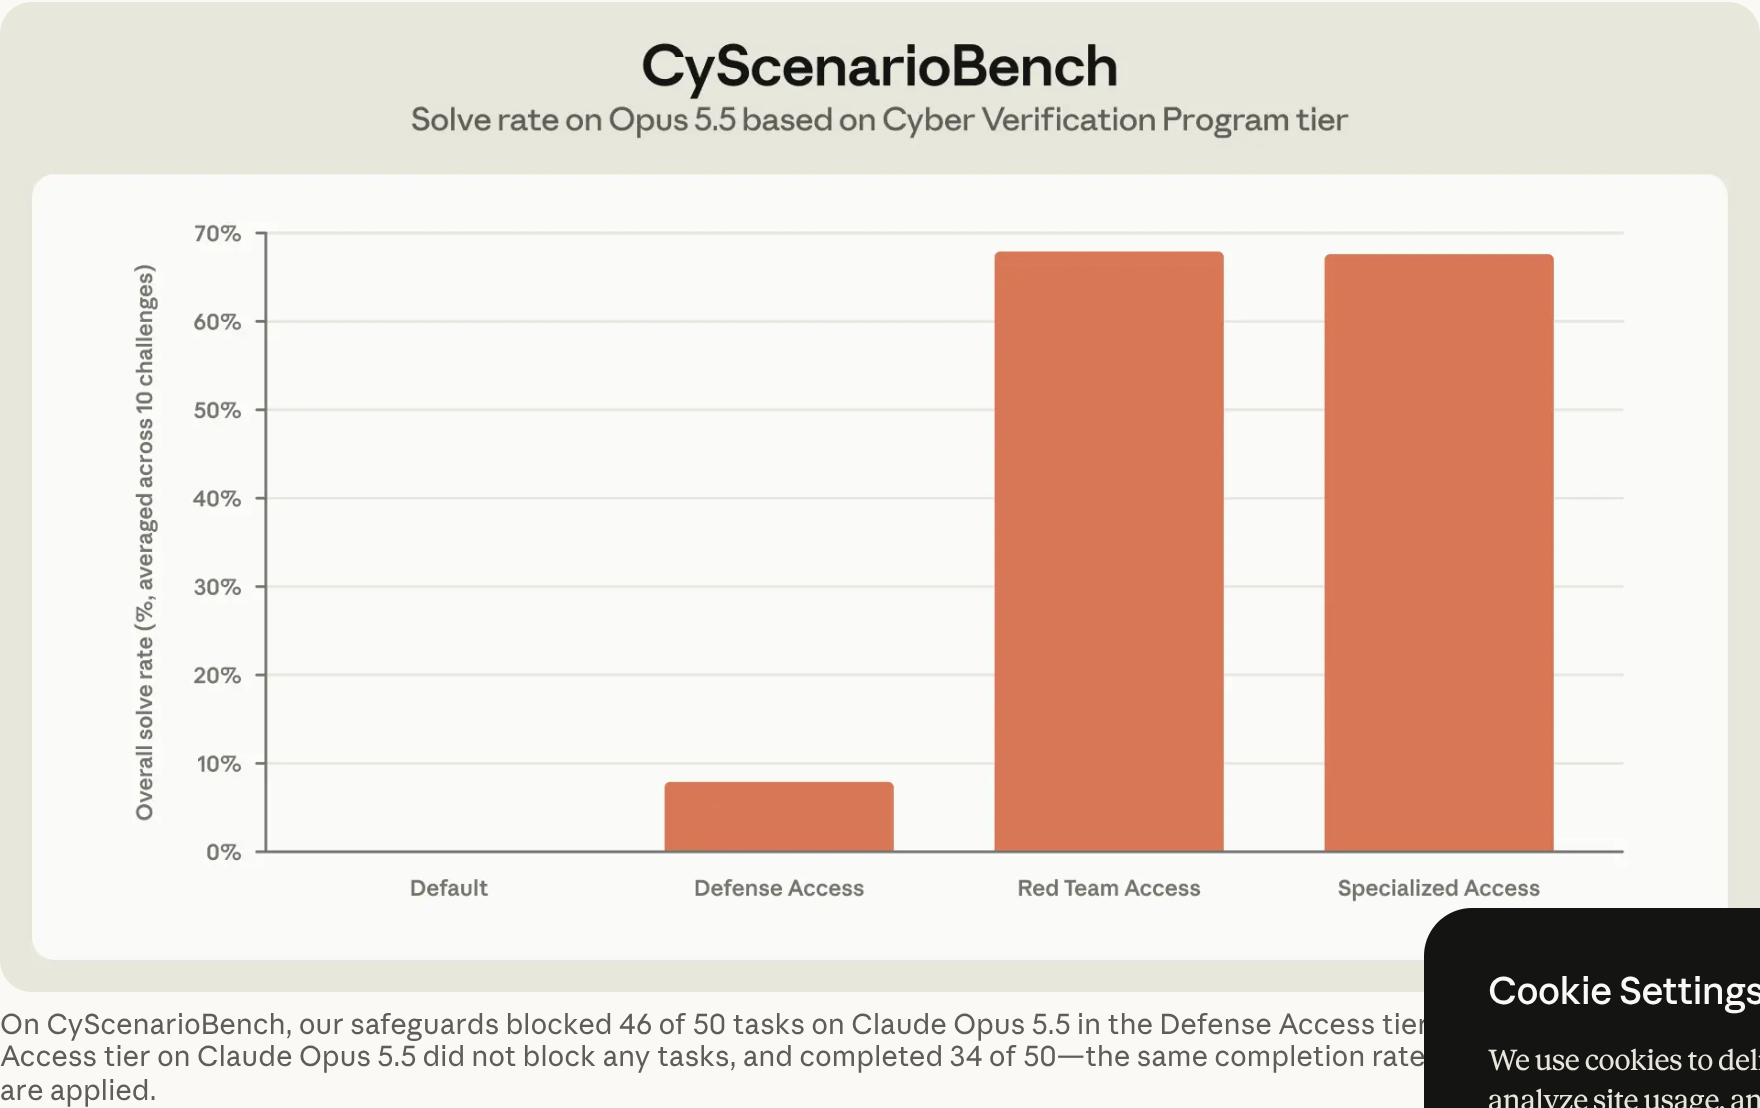
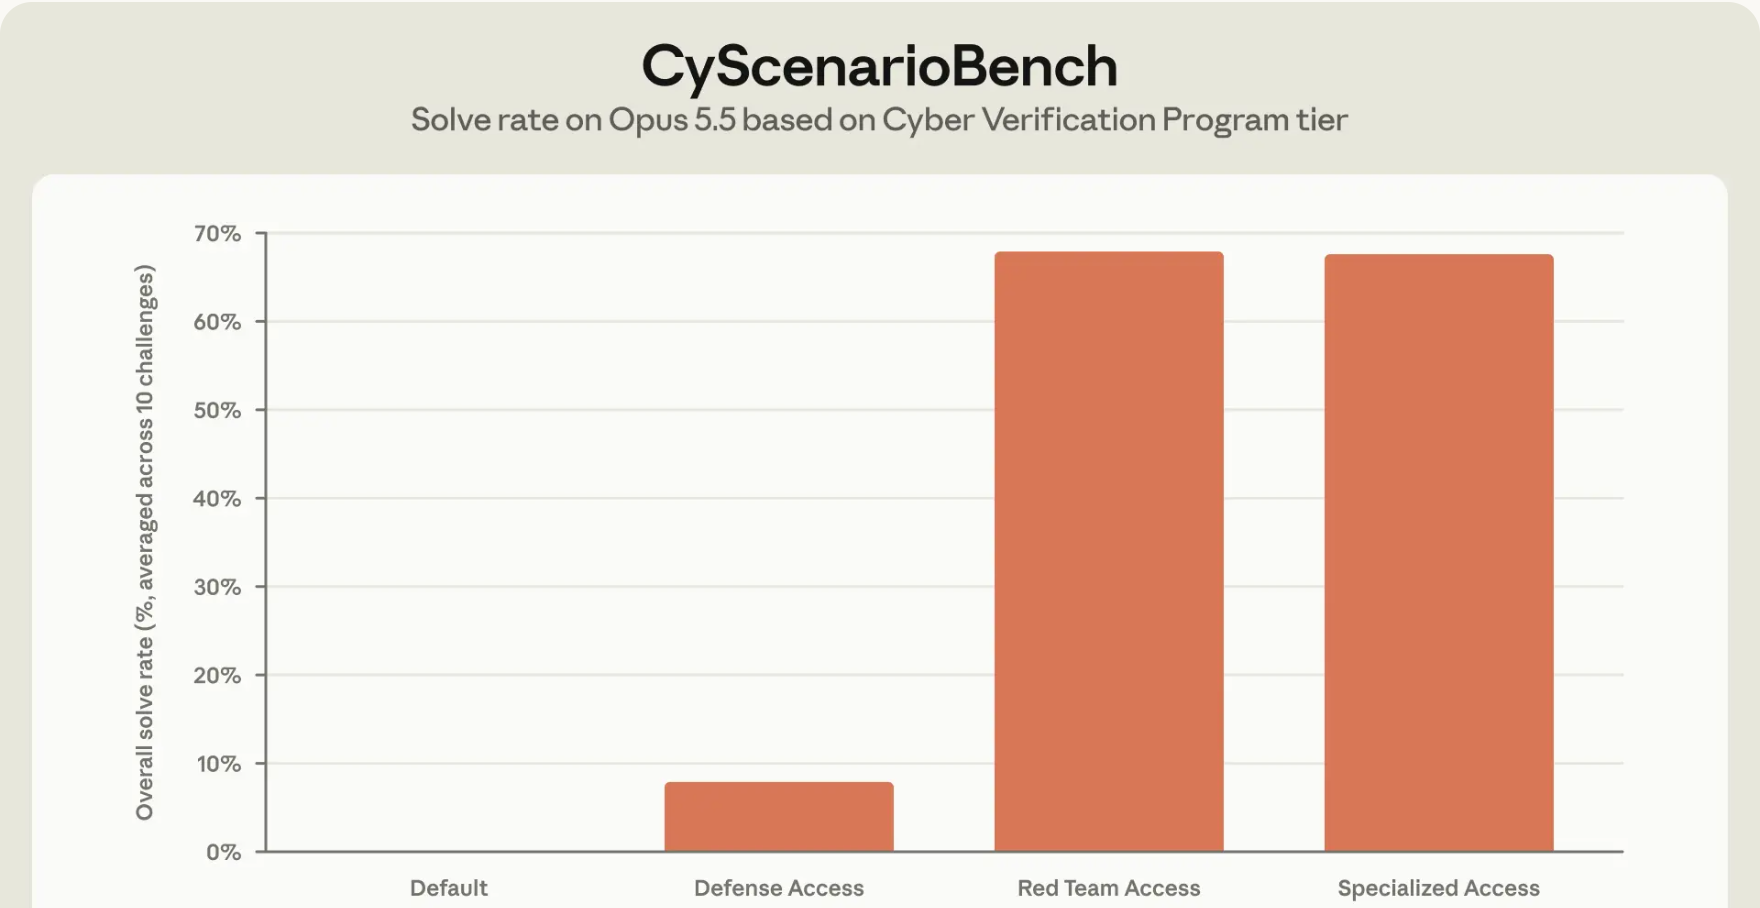
AIN-969: crop source cookie overlays out of three article heroes

Changed region(s): [[0.0, 0.2467, 1.0, 1.0], [0.0, 0.0308, 1.0, 0.3084]]

diff --git a/docs/audit-reports/2026-10-20.md b/docs/audit-reports/2026-10-20.md
@@ -440,3 +440,35 @@ Live production at 18:06 UTC: `/` `200`, canonical `https://news.lesbass.com/`,
 **Disposition unchanged:** blocked on pending human-only **Connect Cloudflare** card
 `4b55f384-fcf9-41ea-9e2c-a5a5172af0b9`, or a Workers Scripts:Edit token for
 `scripts/deploy-fallback.sh`. No repository change is needed.
+
+## 18:35 UTC — article hero screenshots carried third-party cookie overlays
+
+Browser review of three live article pages found the source page's cookie-consent UI baked
+into the hero screenshot, where it covered or crowded the evidence:
+
+| Article | Defect in the committed hero |
+|---|---|
+| `anthropic-cyber-verification-program-three-tiers-oct-2026` | Large black **Cookie Settings** panel over the bottom-right of the CyScenarioBench chart and caption |
+| `anthropic-fable-5-redeployed-2026-jailbreak-framework` | Cookie panel covering roughly the bottom-right third of the Anthropic screenshot |
+| `google-interactions-api-ga-primary-gemini-interface` | Full-width Google cookie bar plus **OK, got it** button across the bottom |
+
+Fix (no source content rewritten):
+
+- Cropped the three source PNGs to remove only the cookie chrome. The CyScenarioBench chart,
+  the Fable 5 section heading/opening paragraph, and the Google headline/bylines/illustration
+  remain visible.
+- Updated the cyber `imageAlt` to describe the chart rather than the removed caption, and added
+  a "cropped to remove the source page's cookie-consent overlay" note to all three `imageCredit`
+  strings.
+- Regenerated the WebP/900w variants through the normal prebuild and rebuilt (593 pages,
+  clean tree: 72 articles / 164 sitemap URLs).
+
+Verification: `test:images`, `test:seo`, `test:dates` pass; Chromium at 1280×800 and 375×812
+reports `scrollWidth == clientWidth` and shows no cookie overlay. Evidence:
+`docs/audit-reports/2026-10-20/hero-cookie-fix-{cyber,fable,google}-375.png`.
+
+Two smaller source-site "Cookies" pills remain in the Leanstral 1.5 and Mistral Large 4 heroes;
+they sit in empty page margin rather than over evidence, and cropping them would remove the
+capture date, so they were left unchanged.
+
+Production is still the 2026-10-13 artifact; this fix ships with the next successful deploy.

diff --git a/src/content/articles/google-interactions-api-ga-primary-gemini-interface.md b/src/content/articles/google-interactions-api-ga-primary-gemini-interface.md
@@ -30,7 +30,7 @@ tags:
 highRiskClaims: false
 image: "/images/articles/google-interactions-api-ga-primary-gemini-interface/hero-blog-desktop.png"
 imageAlt: "Google blog post 'Interactions API: our primary interface for Gemini models and agents' on 2026-07-12, showing the bylines (Ali Çevik, Group PM, Google DeepMind; Philipp Schmid, Developer Relations Engineer, Google DeepMind), the Interactions_API_GA_final hero illustration, and the opening paragraph announcing general availability and a stable schema."
-imageCredit: "Source: blog.google/innovation-and-ai/technology/developers-tools/interactions-api-general-availability/ (Google's developer blog, post bylines: Ali Çevik and Philipp Schmid, Google DeepMind; datePublished 2026-06-22T17:15:00+00:00) · Captured 2026-07-12 via Playwright Chromium with @sparticuz/chromium (the ai-newsroom scripts/browser.mjs helper) · Google-hosted page used editorially as the primary source for the GA post · Desktop 1280×900, mobile 390×844 (rendered at 2× device pixel ratio)."
+imageCredit: "Source: blog.google/innovation-and-ai/technology/developers-tools/interactions-api-general-availability/ (Google's developer blog, post bylines: Ali Çevik and Philipp Schmid, Google DeepMind; datePublished 2026-06-22T17:15:00+00:00) · Captured 2026-07-12 via Playwright Chromium with @sparticuz/chromium (the ai-newsroom scripts/browser.mjs helper) · Google-hosted page used editorially as the primary source for the GA post · Cropped to remove the source page's cookie-consent bar; page content unchanged · Desktop 1280×900, mobile 390×844 (rendered at 2× device pixel ratio)."
 sources:
   - title: "Google — 'Interactions API: our primary interface for Gemini models and agents' (2026-06-22, bylines: Ali Çevik, Group PM, Google DeepMind; Philipp Schmid, Developer Relations Engineer, Google DeepMind; datePublished 2026-06-22T17:15:00+00:00, dateModified 2026-06-22T17:25:31+00:00)"
     url: "https://blog.google/innovation-and-ai/technology/developers-tools/interactions-api-general-availability/"

diff --git a/src/content/articles/anthropic-fable-5-redeployed-2026-jailbreak-framework.md b/src/content/articles/anthropic-fable-5-redeployed-2026-jailbreak-framework.md
@@ -6,7 +6,7 @@ author: "AI Newsroom"
 tags: ["anthropic", "claude", "amazon", "microsoft", "google", "glasswing", "jailbreak", "ai-safety", "ai-policy", "export-controls", "caisi", "hackerone", "executive-order-14409", "us-government", "ai-regulation", "high-risk-claim"]
 image: "/images/articles/anthropic-fable-5-redeployed-2026-jailbreak-framework/hero-framework-dimensions.png"
 imageAlt: "Screenshot of the Anthropic 'Redeploying Fable 5' announcement page (anthropic.com/news/redeploying-fable-5, captured 2026-07-02), showing the section heading 'A consensus industry framework for jailbreaks' and the opening paragraph that motivates the four-dimension scoring proposal."
-imageCredit: "Source: https://www.anthropic.com/news/redeploying-fable-5 · Captured: 2026-07-02 via Playwright Chromium (headless, networkidle) · Section heading 'A consensus industry framework for jailbreaks' visible on the page at the time of capture · Use: editorial illustration for the four-dimension jailbreak severity framework described in the article body."
+imageCredit: "Source: https://www.anthropic.com/news/redeploying-fable-5 · Captured: 2026-07-02 via Playwright Chromium (headless, networkidle) · Section heading 'A consensus industry framework for jailbreaks' visible on the page at the time of capture · Cropped to remove the source page's cookie-consent overlay; text unchanged · Use: editorial illustration for the four-dimension jailbreak severity framework described in the article body."
 sources:
   - title: "Anthropic — \"Redeploying Fable 5\" (announcement, dated 2026-06-30)"
     url: "https://www.anthropic.com/news/redeploying-fable-5"

diff --git a/src/content/articles/anthropic-cyber-verification-program-three-tiers-oct-2026.md b/src/content/articles/anthropic-cyber-verification-program-three-tiers-oct-2026.md
@@ -14,8 +14,8 @@ tags:
   - enterprise-frontier-safeguards
   - high-risk-claims
 image: "/images/articles/anthropic-cyber-verification-program-three-tiers-oct-2026/hero.png"
-imageAlt: "Screenshot of Anthropic's CyScenarioBench results figure from its Cyber Verification Program announcement: a chart above Anthropic's caption stating that safeguards blocked 46 of 50 tasks on Claude Opus 5.5 in the Defense Access tier, while the Red Team Access tier blocked none and completed 34 of 50."
-imageCredit: "Source: https://www.anthropic.com/news/cyber-verification-program · Capture date: 2026-10-07 (Europe/Rome) via Playwright Chromium · Credit: Anthropic · License: no license stated on page"
+imageAlt: "Screenshot of Anthropic's CyScenarioBench results figure from its Cyber Verification Program announcement, charting solve rate on Claude Opus 5.5 across four access tiers: Default, Defense Access, Red Team Access, and Specialized Access. Defense Access is far below the other two tiers."
+imageCredit: "Source: https://www.anthropic.com/news/cyber-verification-program · Capture date: 2026-10-07 (Europe/Rome) via Playwright Chromium · Credit: Anthropic · License: no license stated on page · Cropped to remove the source page's cookie-consent overlay; chart unchanged"
 canonicalURL: "https://news.lesbass.com/articles/anthropic-cyber-verification-program-three-tiers-oct-2026/"
 sources:
   - title: "Anthropic — Expanding the Cyber Verification Program (announcement, 2026-10-06)"
